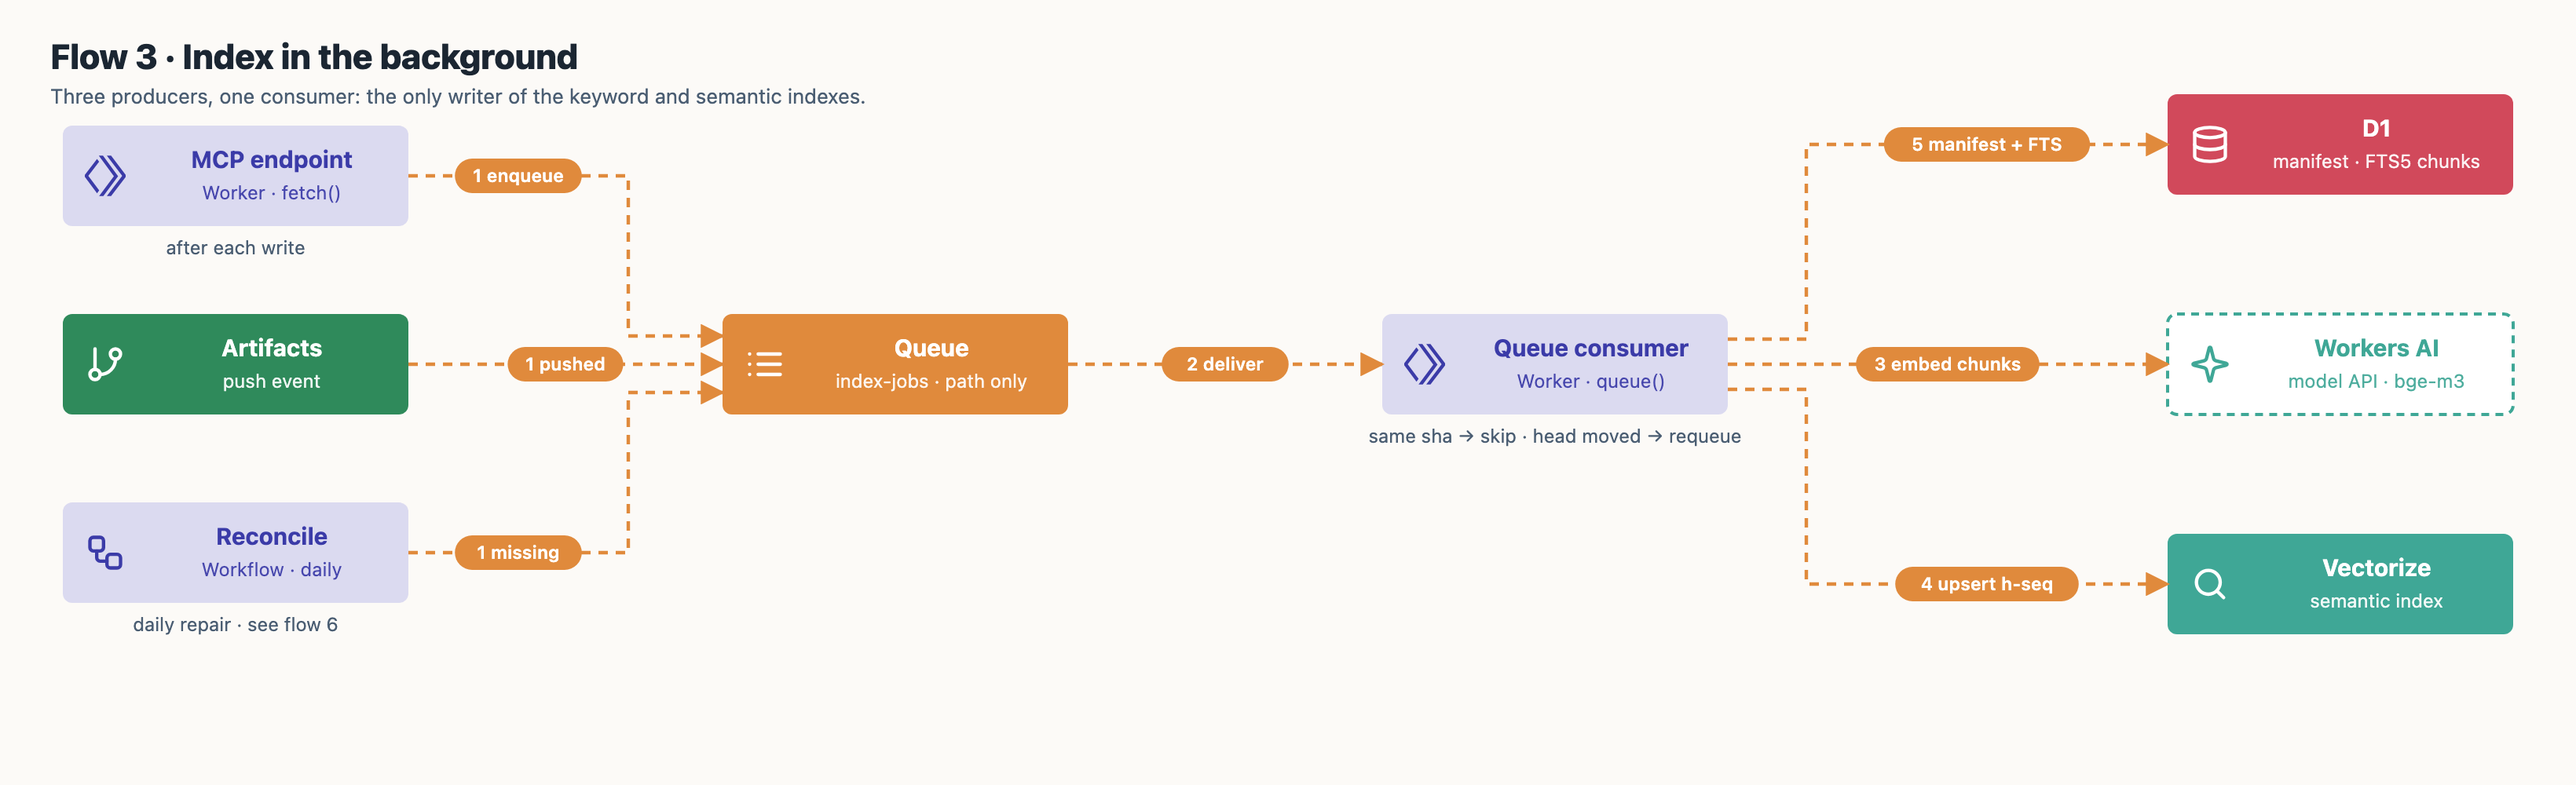
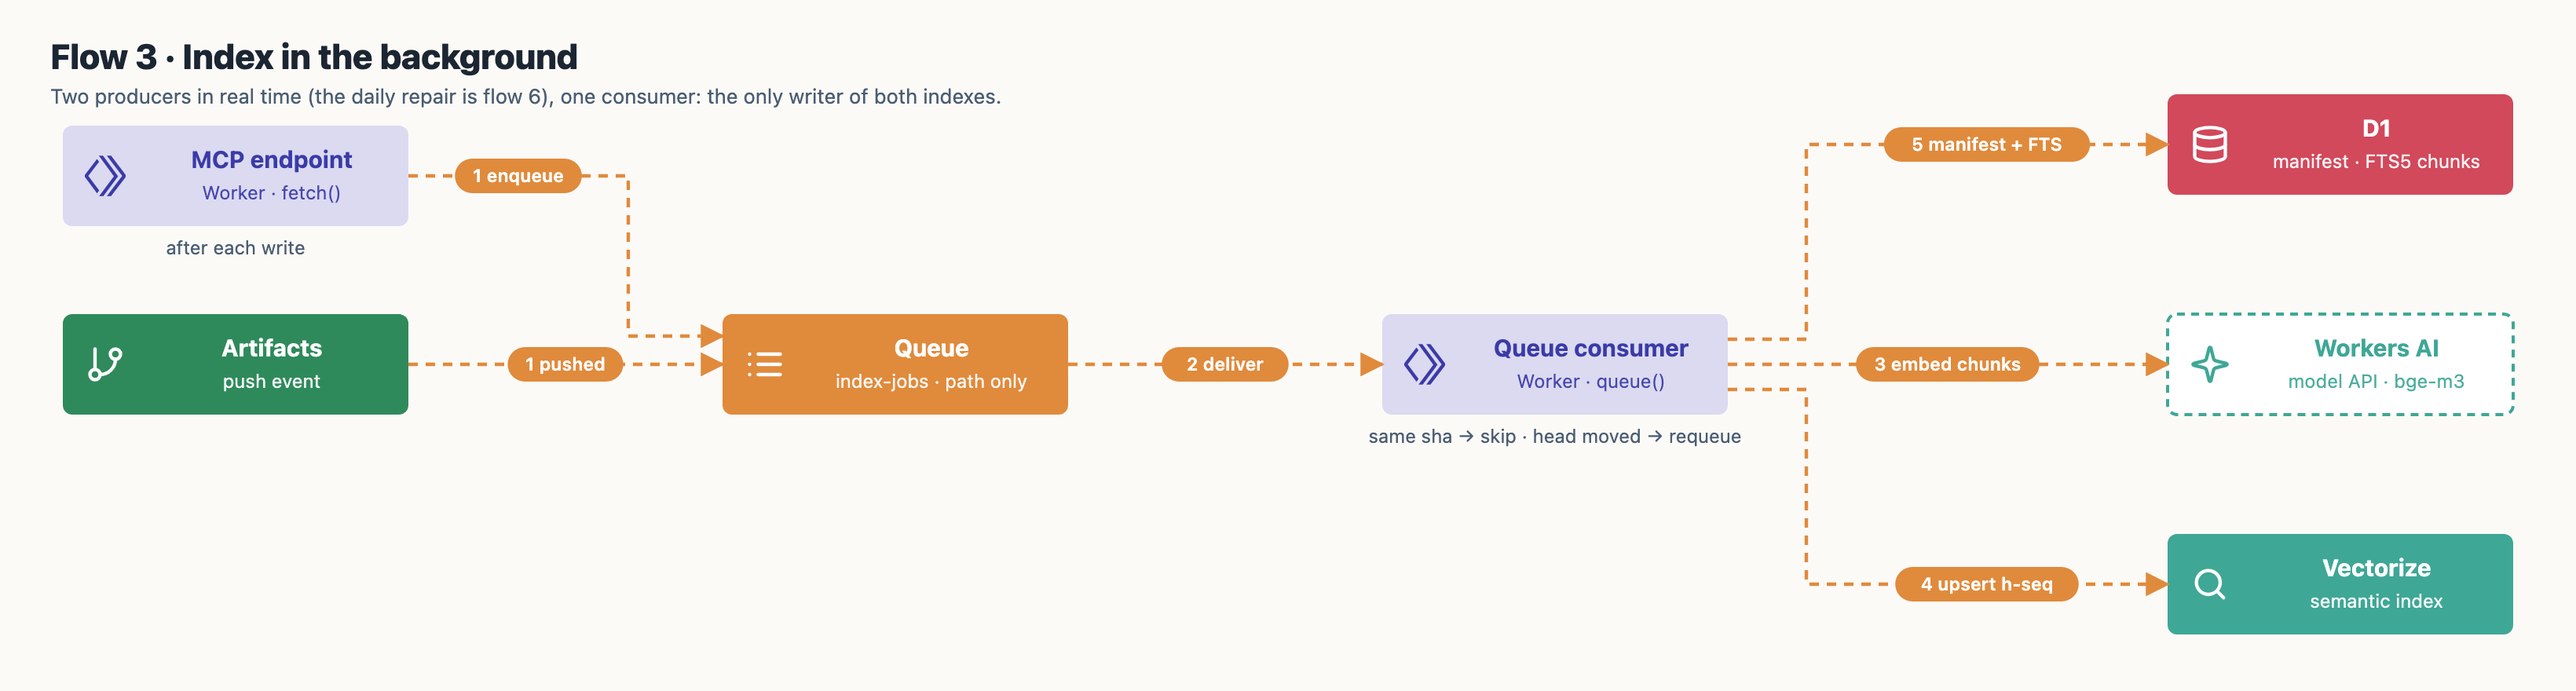
Architecture: index flow shows only the real-time producers
Claude-Session: https://claude.ai/code/session_0171UdtAm1pRxwuhTFhKDhrM

diff --git a/docs/architecture/draw_flows.py b/docs/architecture/draw_flows.py
@@ -49,10 +49,9 @@ save("4-read", 1140, 340, "Flow 4 · Read a note", "Straight from Git; the reply
 ])
 
 # 4. index
-save("3-index", 1640, 500, "Flow 3 · Index in the background", "Three producers, one consumer: the only writer of the keyword and semantic indexes.", [
+save("3-index", 1640, 440, "Flow 3 · Index in the background", "Two producers in real time (the daily repair is flow 6), one consumer: the only writer of both indexes.", [
     endpoint(40, 80, "after each write"),
     box(40, 200, "Artifacts", "push event", "green", icons=("branch",)),
-    box(40, 320, "Reconcile", "Workflow · daily", "indigo", "daily repair · see flow 6", icons=("workflow",), kind="part"),
     box(460, 200, "Queue", "index-jobs · path only", "orange", icons=("queue",)),
     box(880, 200, "Queue consumer", "Worker · queue()", "indigo", "same sha → skip · head moved → requeue", icons=("workers",), kind="part"),
     box(1380, 60, "D1", "manifest · FTS5 chunks", "red", icons=("database",)),
@@ -60,7 +59,6 @@ save("3-index", 1640, 500, "Flow 3 · Index in the background", "Three producers
     box(1380, 340, "Vectorize", "semantic index", "teal", icons=("search",)),
     arrow([(260, 112), (400, 112), (400, 214), (460, 214)], "1 enqueue", flow="index"),
     arrow([(260, 232), (460, 232)], "1 pushed", flow="index"),
-    arrow([(260, 352), (400, 352), (400, 250), (460, 250)], "1 missing", flow="index"),
     arrow([(680, 232), (880, 232)], "2 deliver", flow="index"),
     arrow([(1100, 232), (1380, 232)], "3 embed chunks", flow="index"),
     arrow([(1100, 248), (1150, 248), (1150, 372), (1380, 372)], "4 upsert h-seq", flow="index"),
